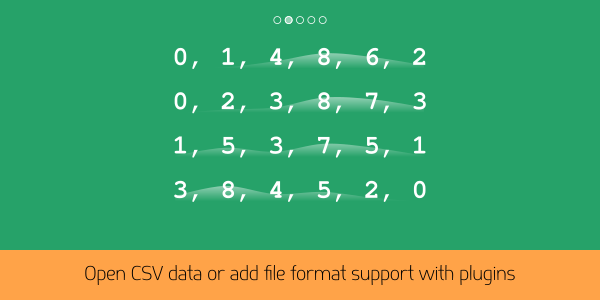
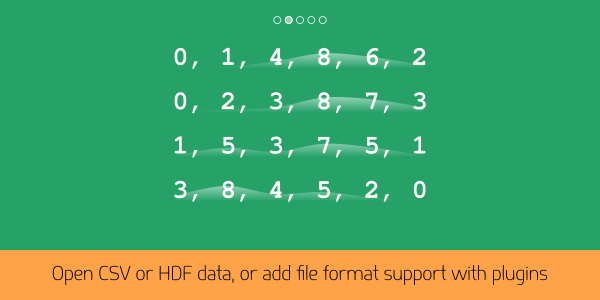
Updated firstrun slide 2

Changed region(s): [[0.09, 0.87, 0.93, 0.96]]

diff --git a/LibPeakaboo/src/main/java/org/peakaboo/tier/BasicTierProvider.java b/LibPeakaboo/src/main/java/org/peakaboo/tier/BasicTierProvider.java
@@ -46,7 +46,7 @@ public class BasicTierProvider implements TierProvider {
 
 	@Override
 	public String tierName() {
-		return "Community Edition";
+		return "XRF Analysis";
 	}
 
 	@Override
